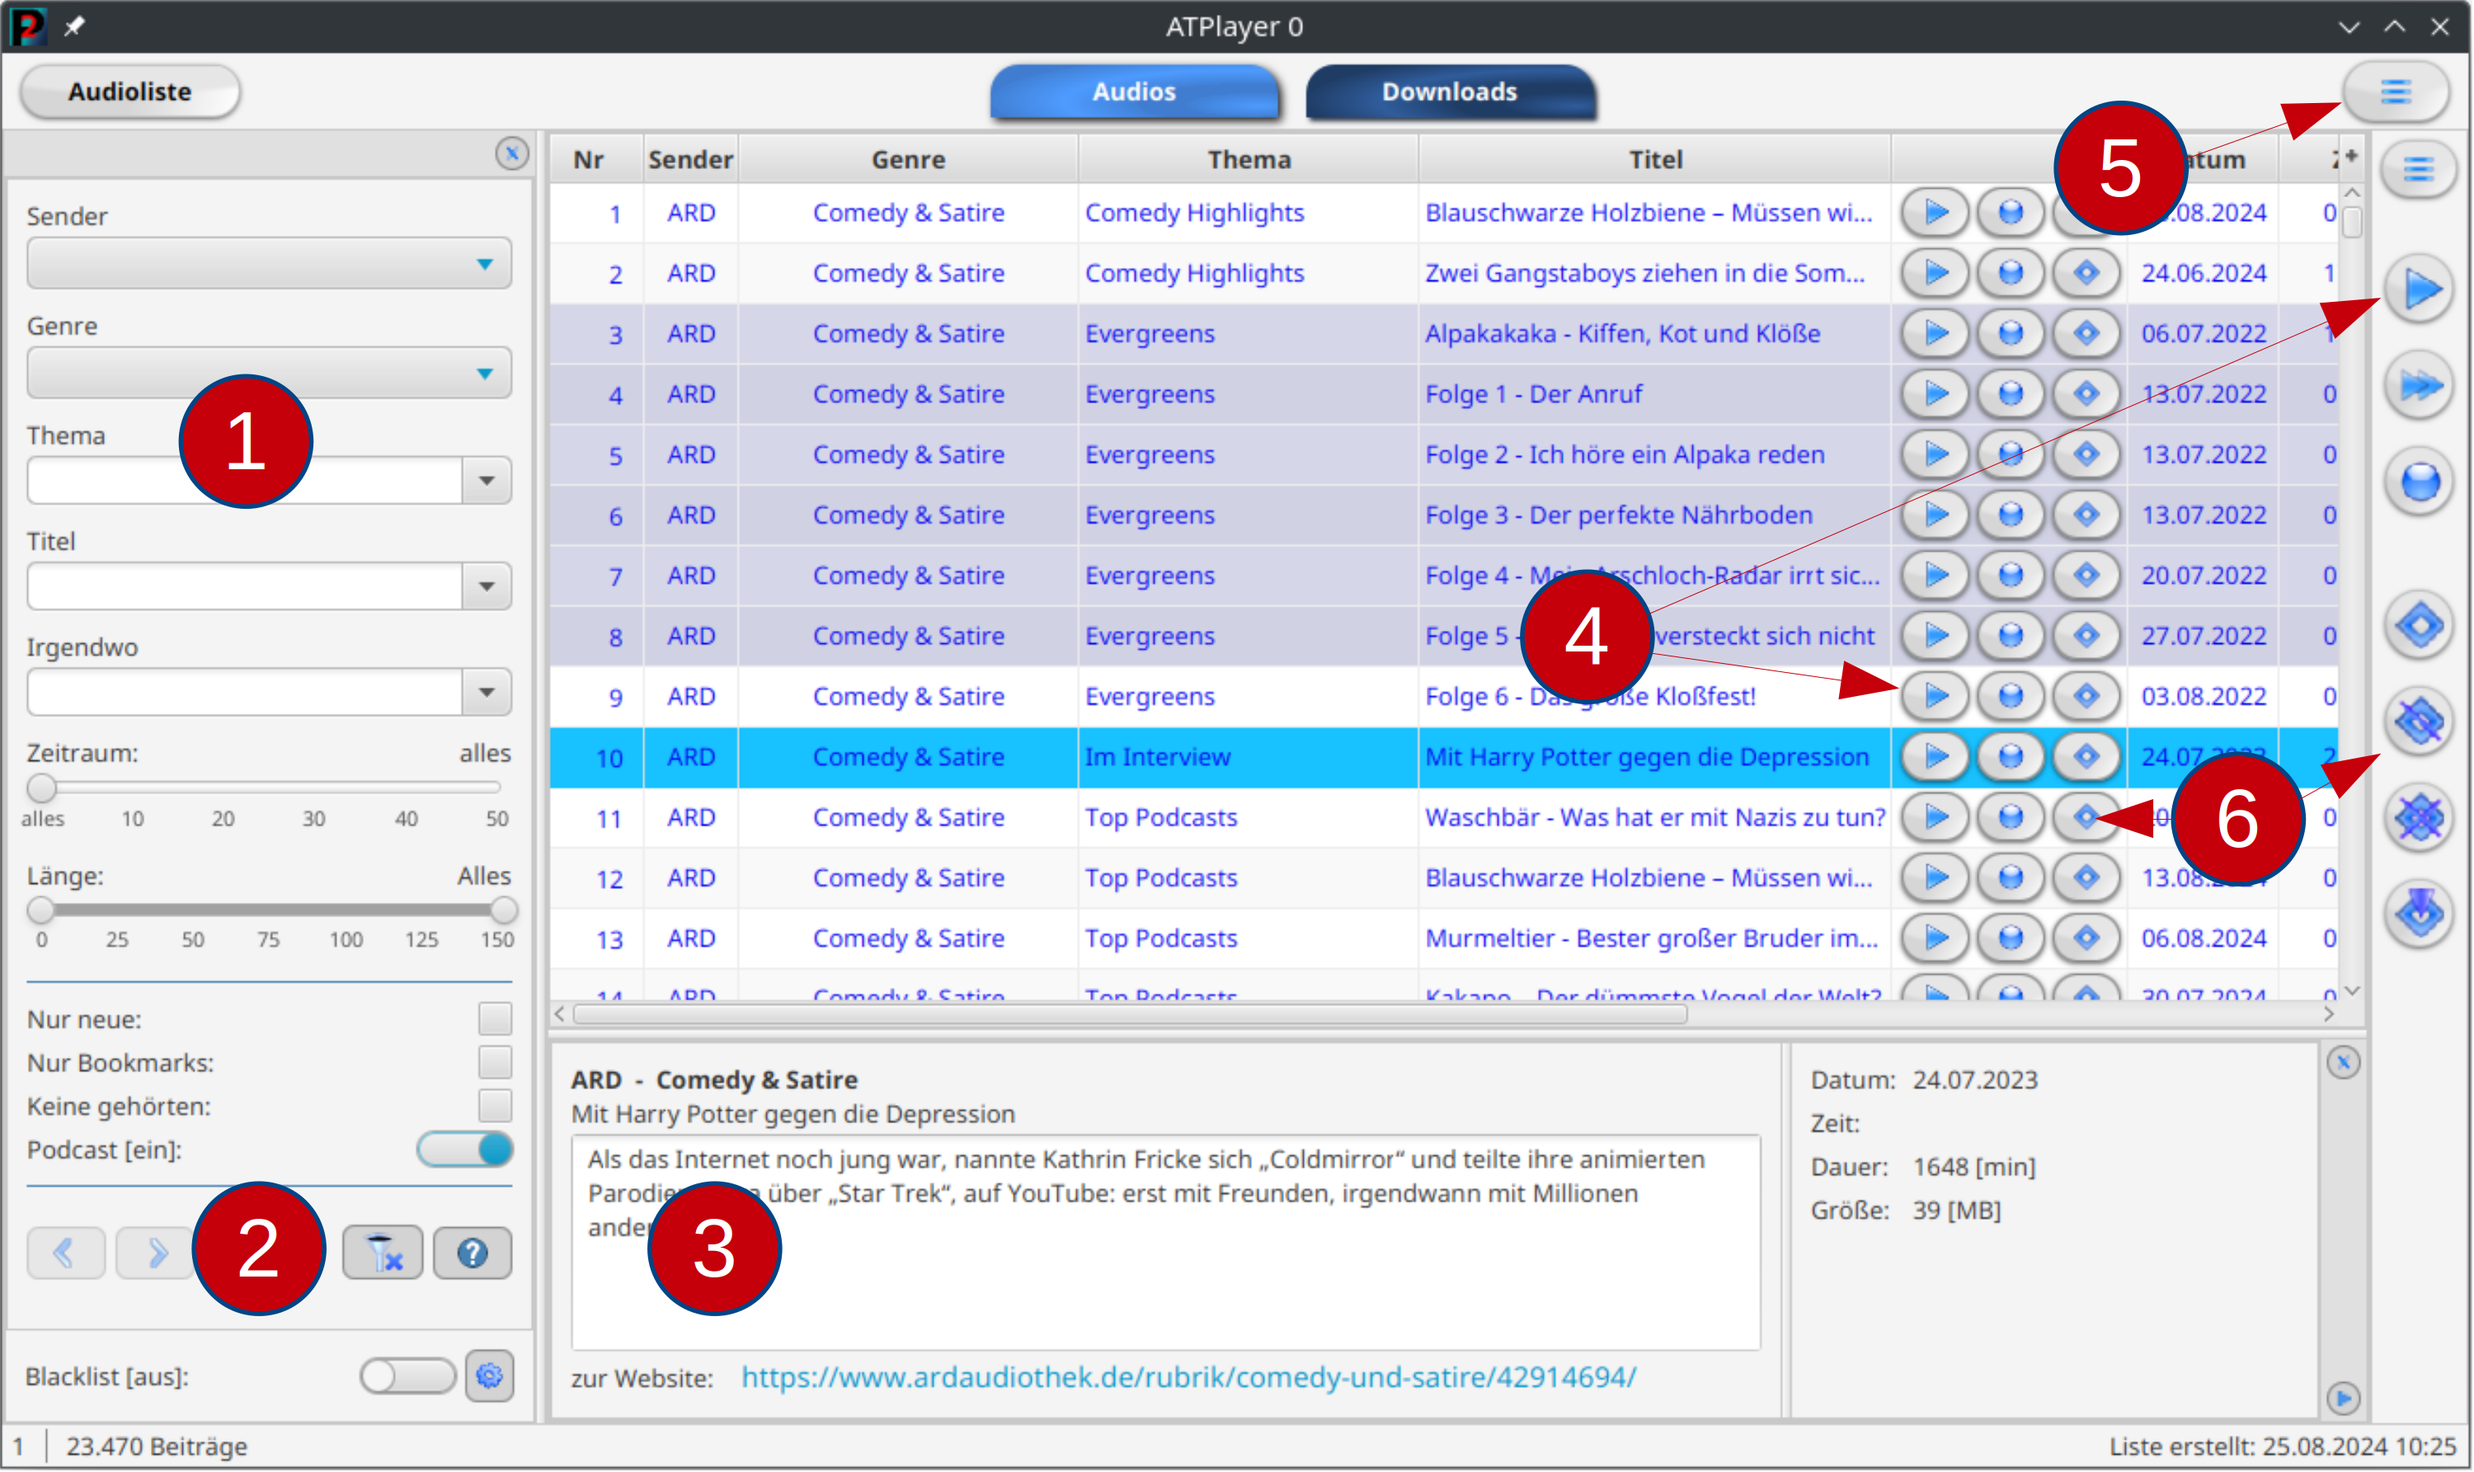
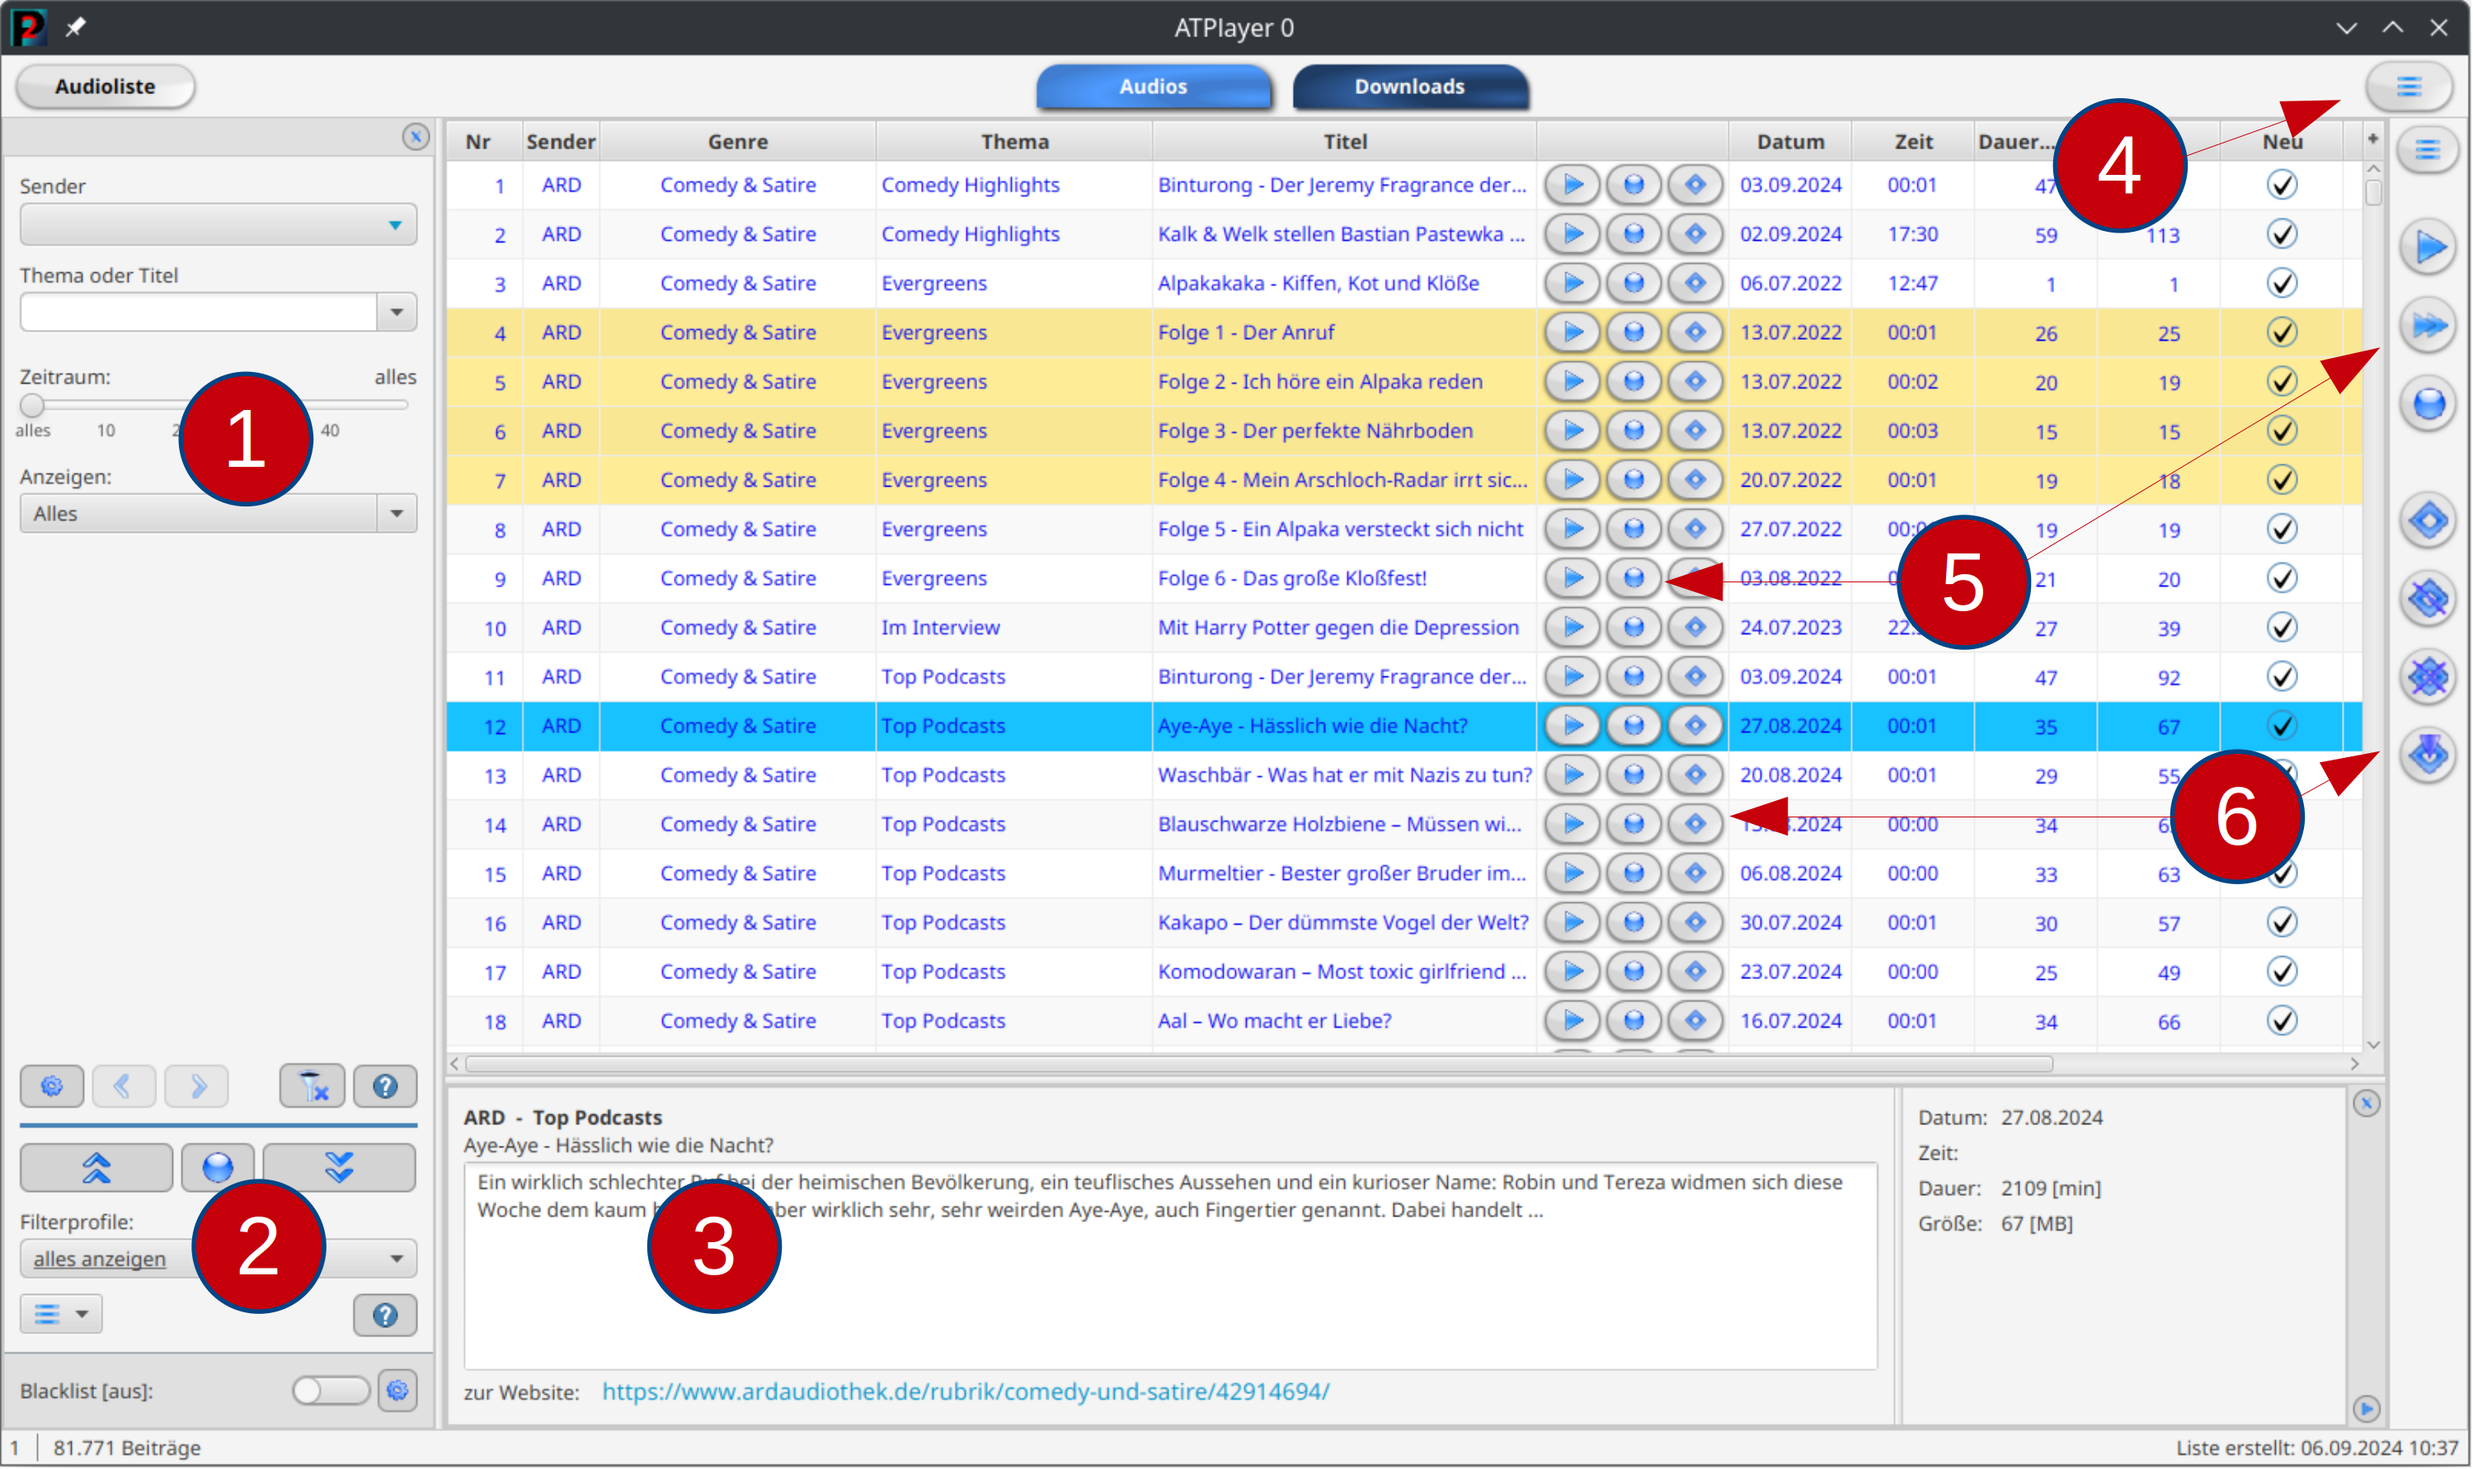
startpane

diff --git a/src/main/java/de/p2tools/atplayer/gui/startdialog/StartPane.java b/src/main/java/de/p2tools/atplayer/gui/startdialog/StartPane.java
@@ -49,22 +49,22 @@ public class StartPane {
                 "in der Audioliste ermöglichen." +
 
                 P2LibConst.LINE_SEPARATORx2 +
-                "2) Hier können alte Filtereinstellungen" + P2LibConst.LINE_SEPARATOR +
-                "wiederhergestellt und der" + P2LibConst.LINE_SEPARATOR +
-                "Filter gelöscht werden." +
+                "2) Hier können Filter ein/ausgeblendet werden," + P2LibConst.LINE_SEPARATOR +
+                "alte Filtereinstellungen wiederhergestellt" + P2LibConst.LINE_SEPARATOR +
+                "und der Filter gelöscht werden." +
 
                 P2LibConst.LINE_SEPARATORx2 +
                 "3) Infos zum markierten Audio" + P2LibConst.LINE_SEPARATOR +
                 "werden hier angezeigt." +
 
                 P2LibConst.LINE_SEPARATORx2 +
-                "4) Ein Audio oder ein Download kann" + P2LibConst.LINE_SEPARATOR +
-                "hier gestartet werden." +
-
-                P2LibConst.LINE_SEPARATORx2 +
-                "5) Das ist das Programm-Menü" + P2LibConst.LINE_SEPARATOR +
+                "4) Das ist das Programm-Menü" + P2LibConst.LINE_SEPARATOR +
                 "mit den Einstellungen und Infos über" + P2LibConst.LINE_SEPARATOR +
                 "das Programm." +
+
+                P2LibConst.LINE_SEPARATORx2 +
+                "5) Ein Audio oder ein Download kann" + P2LibConst.LINE_SEPARATOR +
+                "hier gestartet werden." +
 
                 P2LibConst.LINE_SEPARATORx2 +
                 "6) Audios können damit markiert " + P2LibConst.LINE_SEPARATOR +
